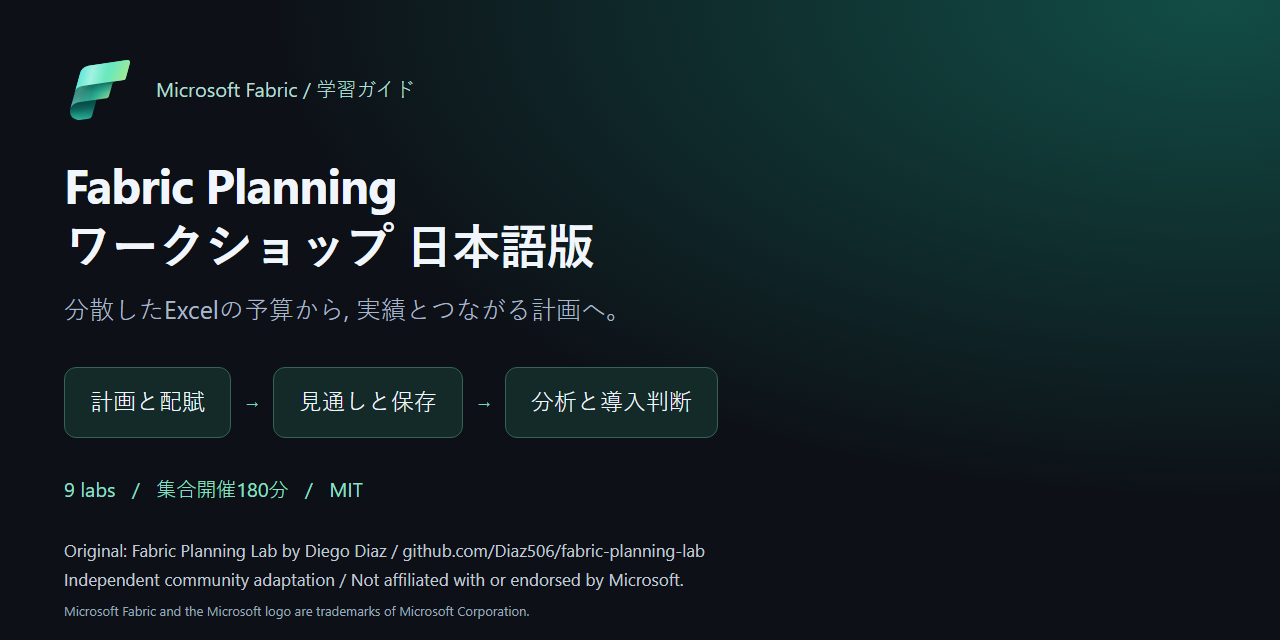
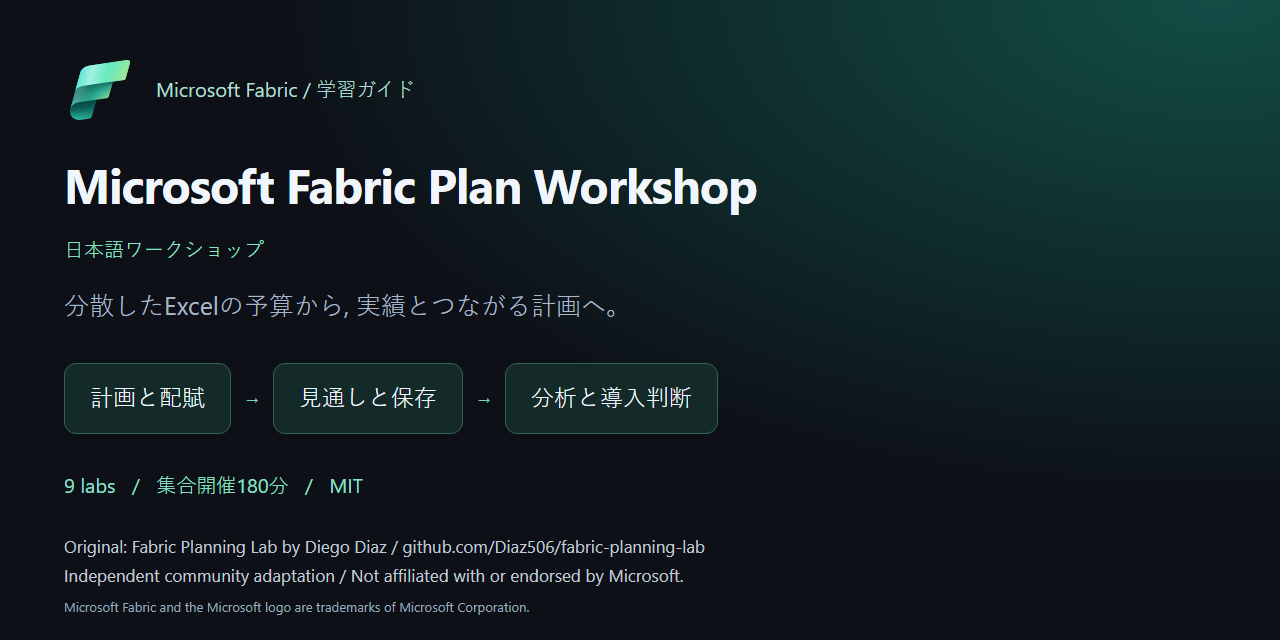
Document Fabric Planning workshop deployment guidance

diff --git a/docs/DEPLOYMENT-GUIDE-JA.md b/docs/DEPLOYMENT-GUIDE-JA.md
@@ -1,0 +1,112 @@
+# Microsoft Fabric Plan Workshopの配備ガイド
+
+このガイドはAIエージェントの**安全な事前調査と, 承認を得た後の配備支援**の手順です。Fabricへの接続やクラウド変更をこの文書だけで実行するものではありません。READMEにあるプロンプトをGitHub Copilot / OpenAI Codex / Claude Codeのリポジトリ作業セッションへ渡し, 最初は読み取り専用のdry-runから開始してください。
+
+> [!IMPORTANT]
+> このリポジトリにはLabのMarkdown / 画像, サンプルデータへの公式配布リンクがありますが, Plan定義, PBIX本体, SQLデータベース定義, 一括配備テンプレートはありません。このGitルートをFabric Gitに接続してもWorkshopは自動構成されません。空のWorkspaceからの初回作成にはFabric上での対話的なPlan作成と検証が必要です。
+
+## 配備方式を選ぶ
+
+| 方式 | 前提 / 自動化できる範囲 / 人が確認すること |
+|---|---|
+| **A / 空Workspaceから初回構築** | **前提:** 用意済みの空Workspace, 適切な容量 / 権限, Microsoft公式PBIX。Lab07を含む場合は公式XLSXも用意。**自動化:** 文書化されたAPIで対応する作成 / インポート, アイテム一覧, 非同期状態確認。**人が確認:** Planのシート / 数式 / シナリオ / PowerTable設定は, 現行API / 定義形式のサポートを確認できなければ管理画面で作成し, 実値を確認 |
+| **B / 検証済みソース環境から昇格** | **前提:** 検証済みソースWorkspaceまたは公式サポート定義, 依存するモデル / SQL, Git統合 / Deployment Pipeline。**自動化:** サポート対象のPlanと依存アイテムを昇格し, Variable Libraryで環境参照を切り替える。**人が確認:** 権限 / 接続資格情報 / 環境変数 / 書き戻し先 / 本人別アクセス / 実データ / 受入条件 |
+
+方式Bは空のターゲットWorkspaceだけでは実行できません。**方式Aで作った空のシェルを, 全Labが構成された成果物として数えないでください。** 自動化可否はアイテム単位に判定し, 未文書化のPlan API / JSON定義は作りません。
+
+## 配備前に集める情報
+
+公開READMEやプロンプトの本文に実際の識別子 / 内部情報を書かないでください。AIセッションに必要な値を渡す場合も, 資格情報やトークンは渡さず, サインインとMFAは本人が公式フローで行います。
+
+| 入力 | 事前確認 |
+|---|---|
+| Tenant ID / Workspace ID / Capacity ID | 承認された演習テナントの値。WorkspaceのTenantと容量のSKU / Regionが想定通りであること |
+| モード | `full-workshop-demo` または `learner-start`。Lab07は全ラボ構成の既定で含める |
+| 実行主体 | 委任された本人または組織が承認したサービスプリンシパル。役割と対象スコープを確認し, secretsをソース / チャット / ログへ記録しない |
+| 課金承認 | 課金セッションが始まる操作, Capacity / SQL / OneLakeの想定範囲, 承認者。数値の保証としてでなく上限と試算根拠を用意 |
+| ソース資産 | 空Workspace方式なら公式PBIX / 任意のXLSX。昇格方式ならソースWorkspace / 定義 / 対応関係 / 依存項目の所有者 |
+| 本人別テスト主体 | 閲覧 / 入力 / 承認 / RLSを許可範囲に応じて確認する別ユーザー。管理者での表示を本人別検証に流用しない |
+
+対象Workspaceは**配備直前に一覧をページングして空であることを確認**します。アイテムが1つでもある, 別テナント / ID / 容量が見える, または全ページを取得できない場合は停止し, 人に照合を依頼します。既存アイテムを自動削除して空にしてはいけません。
+
+## A / 空Workspaceからの初回構築
+
+1. **dry-run:** AIがリポジトリと全Labを読み, 作成予定アイテム, 依存順, 使うAPI / UI, 料金開始の可能性, 必要権限, 自動化できない手順, Lab別受入条件を整理します。この段階は読み取り専用です。
+2. **ソース取得:** `Northwind_FMCG.pbix`と任意の`Northwind-FMCG-assets-powertable-tutorial.xlsx`は[Microsoft公式サンプル](../data/README.md)から取得します。顧客データを代わりに入れず, コピーライトと公式利用条件を確認します。
+3. **PBIXをインポート:** Power BIの[Import API](https://learn.microsoft.com/en-us/rest/api/power-bi/imports/post-import-in-group)はmultipart/form-dataでPBIXをインポートできます。初回の衝突保護に`nameConflict=Abort`を使い, 対象のPBIX名を`datasetDisplayName`に渡します。元のレポートも演習で使うため`skipReport`を使いません。レスポンスが非同期の場合は完了状態を確認し, レポートとモデルの両方, 表示名, サンプルデータ / フィールドが期待通りに見えることを確認します。
+4. **更新資格情報の問題を隠さない:** PBIXのImport後に`Refresh failed due to missing data source credentials`が表示された場合, 成功として握りつぶさず記録し, 更新履歴とモデル / レポートに必要なデータが実際にあるかを管理者が切り分けます。資格情報を推測しません。Power BI APIの認証対象はFabric REST APIと別なので, 資格情報やアクセストークンを表示 / ログ出力しません。
+5. **依存アイテムを承認後に構成:** Lab01〜06 / 08のPlanは対応するセマンティックモデルへ接続します。モデルの名前 / Workspace名を変えません。SQL Database作成などは該当するMicrosoft公式手順と権限が確認できた範囲で実行し, 結果を再読み取りします。権限変更は対象と必要性を提示し, 利用者の明示承認がある場合だけ行います。
+6. **Plan固有の構成を行う:** Microsoft RESTのCreate Itemの`ItemType`一覧にPlanがあることだけでは, Planning sheet / 数式 / シナリオ / PowerTableのAPIスキーマが文書化済みとはみなしません。現行の[Plan CI/CD手順](https://learn.microsoft.com/en-us/fabric/iq/plan/resources/cicd-planning)または製品UIに手順が存在し, 対象バージョン / アイテムでサポートされることを確認します。確認できない場合は作成者がUIで構成し, AIは手順と確認項目の案内に留まります。
+7. **受入表を完了:** 下記のLab00〜08の条件を, 実際のWorkspace / モデル / データ / 権限で確認します。空のPlanや空シートを作っただけで「Workshopを配備」と報告しません。
+
+### 初回構築でのモード
+
+- **`full-workshop-demo` (既定):** 必須のLab00〜06 / 08に加えて, 別Planと別SQL Databaseを使う任意Lab07の構成も含めます。全Labの実体 / 接続 / 設定 / 必要なアクセス確認が完了するまで全体の完了を宣言しません。
+- **`learner-start`:** 受講者がLab01から開始できる, Lab00の権限 / 容量確認と承認済みのサンプルPBIX / report / modelのみ準備する部分構成です。未作成のPlan / シート / SQL / PowerTableを明記し, 完全なWorkshop配備と表現しません。Lab07は指定がない限り含めません。
+
+## B / 検証済みソース環境からの昇格
+
+Planの[Git統合 / Deployment Pipeline](https://learn.microsoft.com/en-us/fabric/iq/plan/resources/cicd-planning)を使います。ソースWorkspace, 検証済みのサポート対象Plan定義, セマンティックモデル, Fabric SQLアプリケーションデータベースの依存関係が必要です。ターゲットWorkspaceが空でも, ソースの定義や依存項目の代わりにはなりません。
+
+1. ターゲットとソースの全アイテムを列挙し, `sourceItemId`, アイテム種別, 依存先, 所有者, 環境別設定を対照します。サポート対象外アイテム, 不明な差分, 環境違いの接続先があれば停止します。
+2. 対象のセマンティックモデルとFabric SQLアプリケーションDBを, 先にまたはPlanと同じ昇格でターゲットに用意します。プライマリPlanの接続先モデルが移行先のIDに対応することを確認します。
+3. Variable Libraryで, 移行先ごとの **semantic-model Item Reference** / **writeback Database / Connection Reference** を登録し, 適用するactive value setをPlanの配備より前に選びます。PlanがソースWorkspaceの接続や書き戻しDBを参照していないことを, ターゲット側で読み返して確認します。
+4. `__fabric_plan_sys`はPlanで入力 / コメント / 書き戻し / アクセス等のメタデータに使うシステムリソースです。初回配備の際に一度デプロイし, 以後の更新ごとに繰り返しデプロイしません。
+5. Deployment PipelineのDeploy Stage Contentは[REST API](https://learn.microsoft.com/en-us/rest/api/fabric/core/deployment-pipelines/deploy-stage-content)で実行できます。`Pipeline.Deploy`スコープ, Pipeline admin, 両WorkspaceのContributorなど, 実行する人 / identityに必要な権限とアイテム別サポートを事前確認します。サービスプリンシパルは対象の全アイテムがその認証方式をサポートする場合に限ります。
+
+概念的なリクエスト形は次のとおりです。実際には組織の認証済みHTTPクライアントを使い, トークンをコマンド履歴 / 画面 / Gitへ出しません。`items`を省略するとPipelineで構成された範囲が対象になるため, 全アイテム対照なしに省略しません。
+
+```http
+POST https://api.fabric.microsoft.com/v1/deploymentPipelines/<pipelineId>/deploy
+Content-Type: application/json
+
+{
+  "sourceStageId": "<sourceStageId>",
+  "targetStageId": "<targetStageId>",
+  "items": [
+    { "sourceItemId": "<verified-source-item-id>", "itemType": "Plan" }
+  ]
+}
+```
+
+応答の`202 Accepted`は投入受付であってデプロイ成功ではありません。APIが返す`Location` / `Retry-After`を使って上限付きで状態をポーリングし, 非同期操作IDは組織が承認したプライベートな運用記録に保存します。最終状態, ターゲット側のアイテム, 接続先, 可視データを確認します。タイムアウト / 失敗時に同じリクエストを無制限に再送しません。
+
+6. 移行後, ターゲットのモデルを更新 / 確認し, ターゲットPlanを開いてシート / 設定 / バインディングを検証します。書き戻し先テーブル名が初期に生成IDになる場合は, 公式手順に沿って期待する名前と宛先を確認 / 必要なら変更します。オート書き戻しを有効化する前に, 承認した対象へ手動書き戻しを1回行い保存の基準を確立します。
+7. ソース側の書き戻し実行ログはターゲットへ移行しません。過去の承認や実行履歴が新環境に引き継がれたと主張せず, 必要な受入 / 運用記録を新規に作ります。運用中のPlan / セマンティックモデル / Workspaceを名前変更しないでください。
+
+## Lab00〜08の受入表
+
+この表は**受入条件の枠**です。配備の成功結果を前もって断定しません。実行者は各行の結果を承認済みのプライベート運用記録へ書き, 未確認 / 手動対応はそのまま残します。既定の期待値, 初期予算, 既存データ, 元レポートを変更しません。
+
+| Lab | 必要な構成 / 確認内容 | 完了とみなす条件 |
+|---|---|---|
+| **00 / 事前準備** | 演習専用Workspace, 容量 / Region, Tenant settings, XMLA, 作成 / モデル接続担当の権限, 課金者 / 上限。Lab08で別ユーザーを使うなら事前に承認済みIDを用意 | 容量 / 設定が読み返され, 作成者と参加者の権限を区別。費用開始条件と未確認項目に責任者がいる。設定変更は実際に承認 / 適用された範囲だけ記録 |
+| **01 / 環境と最初のシート** | Northwind PBIXの元reportとsemantic model, 主Plan, 接続先Item Reference, 初期Planning sheet | Import後にレポートとモデル両方が開く。主Planが期待するモデルに接続し, Lab01のシートに指定フィールド / 実績が現れる。名前変更なし |
+| **02 / 配賦と共同作業** | 主Planの配賦シート, 計画系列, 必要なコメント / 承認列, 対象の編集 / レビューユーザー | 元の初期値を維持した状態で配賦 / 入力 / ロック / コメント / 承認経路をUIで確認。ユーザーごとの許可 / 拒否はそれぞれの実IDで確認し, 認証 / 通知まで確認した範囲を明記 |
+| **03 / Optimizer** | 主PlanのGross Profit用シート, 元系列からのコピー / 編集系列, Optimizer入力 / 制約 / シナリオ | コピー値と元系列が別物であること, 変更対象が元シートへ同期されないことを確認。目標 / 制約 / 出力を記録し, 配備で既定の値を変更しない |
+| **04 / Forecastと書き戻し** | 見通しシート, ローリング期間 / 予測設定, ターゲットFabric SQL DB / Connection Reference, 保存テーブル | 対象Plan / シナリオ / 実行のログとSQL側の表 / 代表値を照合。許可された手動書き戻しの基準を確立。**元のsemantic model / reportは書き戻しだけでは更新されない** |
+| **05 / P&Lモデルとシナリオ** | 主Planのメジャー / 行モデル, 参照階層, シナリオ | 期待するテーブル / 階層 / 集計粒度と数値の定義を個別に確認。単純平均 / 数量加重や控除の符号など教材が注意する範囲を隠さず, 完全な会計モデルとして扱わない |
+| **06 / Intelligence Canvas** | 主PlanのIntelligence sheet / canvas, モデル系列, From Sheets参照, 必要な埋め込みシート | 実績と入力値がどの系列から来るかを識別し, 許可された試験入力を戻しても元モデルの値と混同しない。参照 / コピーの設定を確認 |
+| **07 / PowerTable (任意)** | 主Planとは別のPowerTable専用Plan, 専用SQL DB, 公式XLSX, Forms / approval / access controls / automations | XLSXの必要なテーブル, フォーム項目, 自動化の対象 / キー, ポリシーを確認。申請 / 承認 / RLSは各許可ユーザー本人で確認し, 初期データを保全 |
+| **08 / SizingとGovernance** | 容量試算, 課金ロール, モデルRLS, Lab07を含むならData Input上限 / 役割設計 | 実機の容量 / 認可テストと想定を区別する。権限のないユーザーを推測で一般化しない。地域, テナント, UIごとの制限 / 未確認事項に担当者を割り当て |
+
+## 制限と運用上の注意
+
+- [Planning CI/CD](https://learn.microsoft.com/en-us/fabric/iq/plan/resources/cicd-planning)に記載された**現行のサポート対象**だけを使います。古いPlanning Plan参照は, 2026年8月以前のものを新しい運用に載せる前にGit上の正規化 / コミットが必要となる場合があります。
+- Planningの上限としてPlan当たり最大25 sheets / 50 visualsが案内されています。Data Inputが100を超えるPipeline配備は失敗し得ます。実際の対象数と[最新の既知の制限](https://learn.microsoft.com/en-us/fabric/iq/plan/overview-limitations)を確認します。WorkspaceレベルのPrivate Link非対応, 個別item / identity権限も別途確認します。
+- 現行のPlanning CI/CDではサービスプリンシパルを使ったアプリケーションデータベースの作成もサポートされています。これを一般のREST Create Item操作へ拡張解釈せず, Pipeline / アイテム / identityごとの公式サポート範囲と必要権限を確認します。
+- 既知の制約やAPIの対応範囲は変わります。Create ItemにPlanのItemTypeがあること, または他のFabricアイテム向けにdefinition APIがあることだけを根拠に, 未公開のPlan固有RESTエンドポイントやJSONを作りません。
+- 別のモデル / writeback DBへのバインド, 権限 / 承認者の割当, Capacity / SQL / OneLakeの課金, import / deploymentのいずれも事前確認します。アイテムが作成されたことはアクセス制御の確認ではありません。
+- 更新するたび, 全ページのアイテム差分と所有IDを照合します。既存アイテムに競合したら停止し, 上書き / 名前変更 / 削除で隠しません。失敗時は今回作成したIDだけを一覧化し, クリーンアップも個別に明示承認を得ます。Workspace全体を失敗時に削除しません。
+- 配備ログ, 証拠画像, 共有画面からトークン / 資格情報 / Tenant URL / 顧客データを除き, publicリポジトリや公開プロンプトへ保存しません。Fabricが未接続なら成功を主張しません。
+- 容量停止 / 一時停止, Plan / DB /アイテムの削除でセッション課金が消えると想定しません。計画 / SQL / OneLakeの費用を分け, 実テナントのBilling / Capacity Metricsと管理者の条件で確認します。
+
+## 公式資料
+
+- [Fabric PlanningのGit統合とCI/CD](https://learn.microsoft.com/en-us/fabric/iq/plan/resources/cicd-planning)
+- [Planningの既知の制限](https://learn.microsoft.com/en-us/fabric/iq/plan/overview-limitations)
+- [Fabric Create Item API](https://learn.microsoft.com/en-us/rest/api/fabric/core/items/create-item)
+- [Fabric Item Management API対応範囲](https://learn.microsoft.com/en-us/rest/api/fabric/articles/item-management/item-management-overview)
+- [Fabric item definition API対応範囲](https://learn.microsoft.com/en-us/rest/api/fabric/articles/item-management/definitions/item-definition-overview)
+- [Deployment Pipelineのコンテンツ昇格API](https://learn.microsoft.com/en-us/rest/api/fabric/core/deployment-pipelines/deploy-stage-content)
+- [Power BIグループへのPBIXインポートAPI](https://learn.microsoft.com/en-us/rest/api/power-bi/imports/post-import-in-group)
